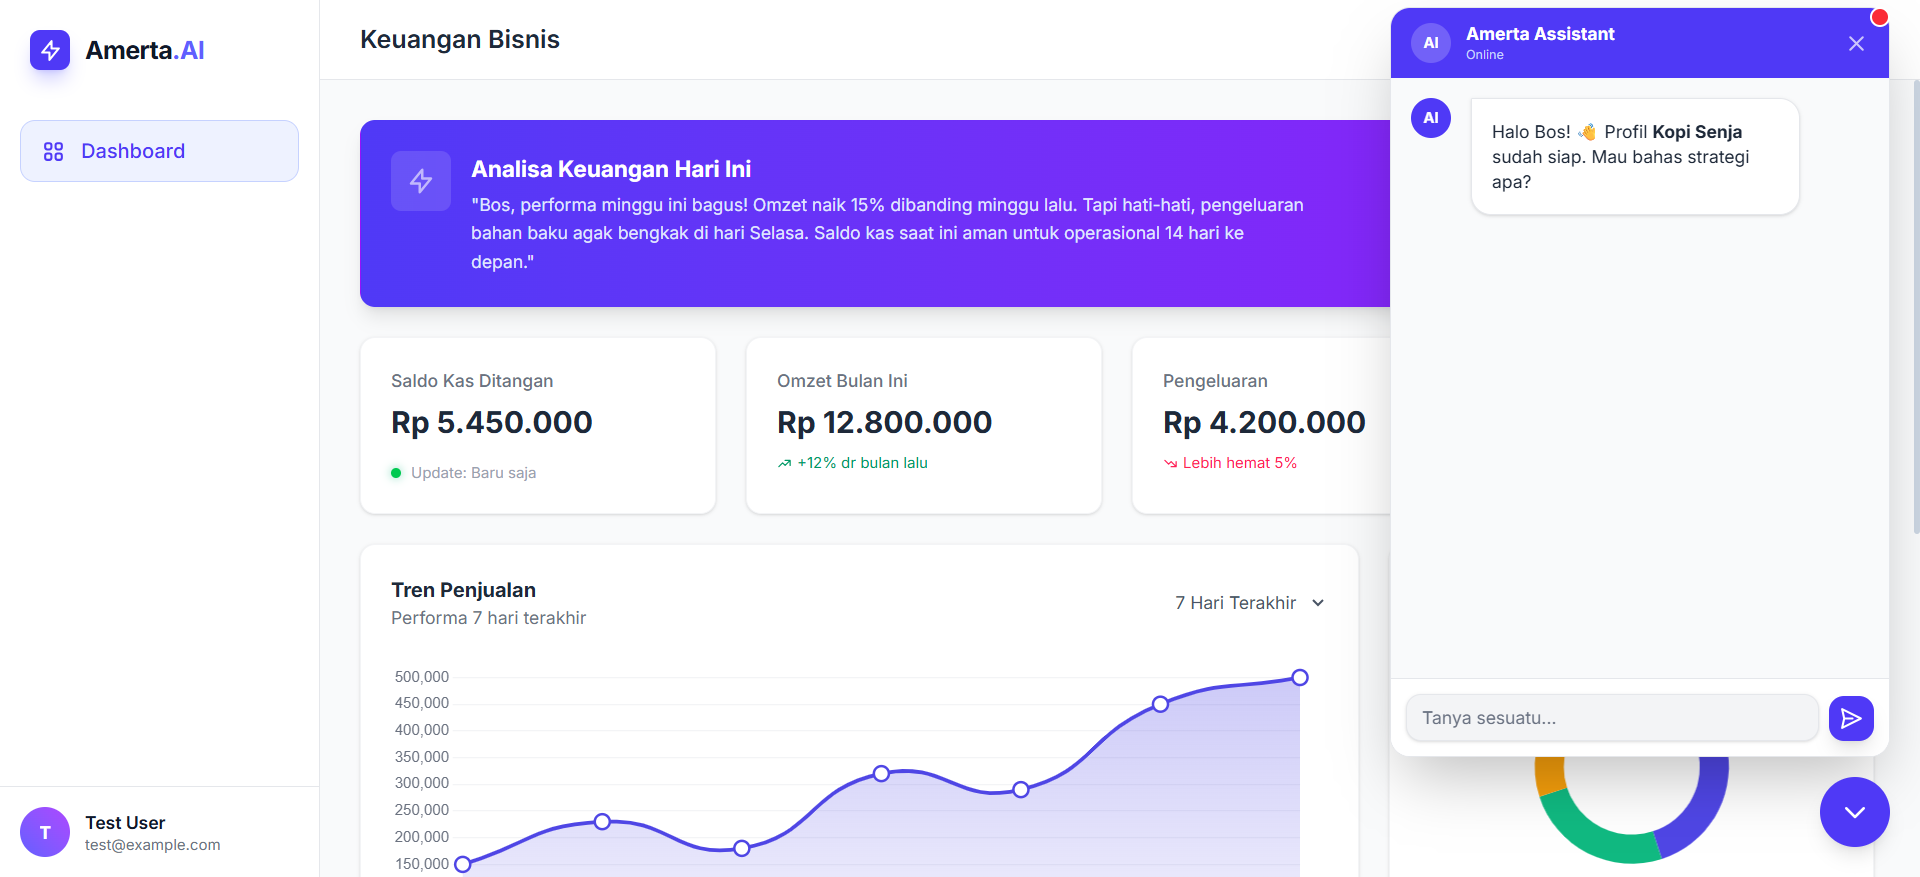
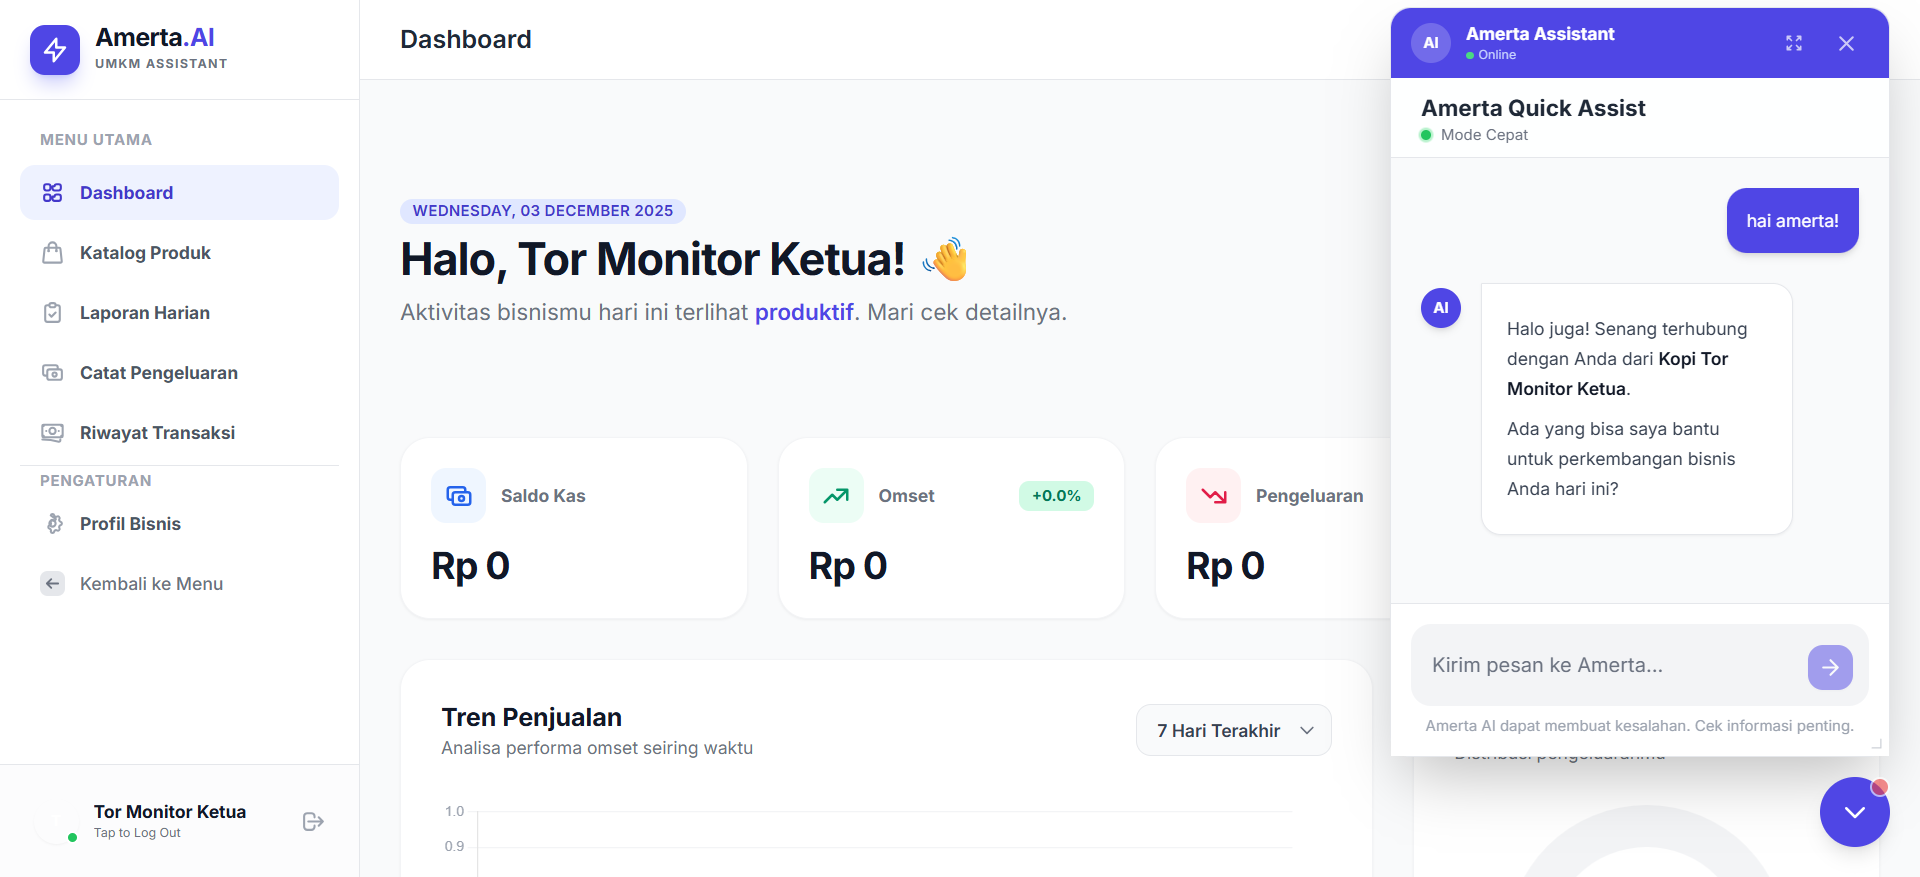
minor adjustment  (hilangkan scrollbar)

diff --git a/resources/css/app.css b/resources/css/app.css
@@ -12,3 +12,31 @@
         "Apple Color Emoji", "Segoe UI Emoji", "Segoe UI Symbol",
         "Noto Color Emoji";
 }
+
+@layer utilities {
+    /* Hide scrollbar for Chrome, Safari and Opera */
+    .scrollbar-hide::-webkit-scrollbar {
+        display: none;
+    }
+
+    /* Hide scrollbar for IE, Edge and Firefox */
+    .scrollbar-hide {
+        -ms-overflow-style: none;  /* IE and Edge */
+        scrollbar-width: none;  /* Firefox */
+    }
+}
+
+/* Apply scrollbar-hide globally to all scrollable elements */
+* {
+    scrollbar-width: none; /* Firefox */
+    -ms-overflow-style: none;  /* IE and Edge */
+}
+
+*::-webkit-scrollbar {
+    display: none; /* Chrome, Safari, Opera */
+}
+
+/* Keep scrolling functionality */
+html {
+    overflow-y: scroll;
+}

diff --git a/resources/views/layouts/partials/sidebar.blade.php b/resources/views/layouts/partials/sidebar.blade.php
@@ -73,6 +73,19 @@
             <span>Catat Pengeluaran</span>
         </a>
 
+        <a href="{{ route('riwayat.index') }}"
+            class="flex items-center gap-3 px-4 py-3 rounded-xl text-sm font-bold transition-all duration-200 group
+            {{ request()->routeIs('riwayat.index') 
+                ? 'bg-indigo-50 text-indigo-700 dark:bg-indigo-600 dark:text-white' 
+                : 'text-gray-600 dark:text-gray-400 hover:bg-gray-100 dark:hover:bg-gray-800 hover:text-gray-900 dark:hover:text-white' }}">
+            <svg class="w-5 h-5 {{ request()->routeIs('riwayat.index') ? 'text-indigo-700 dark:text-white' : 'text-gray-400 dark:text-gray-500 group-hover:text-indigo-600 dark:group-hover:text-white' }} transition-colors" 
+                 fill="none" viewBox="0 0 24 24" stroke="currentColor">
+                <path stroke-linecap="round" stroke-linejoin="round" stroke-width="2" d="M2.25 18.75a60.07 60.07 0 0 1 15.797 2.101c.727.198 1.453-.342 1.453-1.096V18.75M3.75 4.5v.75A.75.75 0 0 1 3 6h-.75m0 0v-.375c0-.621.504-1.125 1.125-1.125H20.25M2.25 6v9m18-10.5v.75c0 .414.336.75.75.75h.75m-1.5-1.5h.375c.621 0 1.125.504 1.125 1.125v9.75c0 .621-.504 1.125-1.125 1.125h-.375m1.5-1.5H21a.75.75 0 0 0-.75.75v.75m0 0H3.75m0 0h-.375a1.125 1.125 0 0 1-1.125-1.125V15m1.5 1.5v-.75A.75.75 0 0 0 3 15h-.75M15 10.5a3 3 0 1 1-6 0 3 3 0 0 1 6 0Zm3 0h.008v.008H18V10.5Zm-12 0h.008v.008H6V10.5Z" />
+            </svg>
+            <span>Riwayat Transaksi</span>
+        </a>
+        
+
         <div class="my-4 border-t border-gray-200 dark:border-gray-800"></div>
         <p class="px-4 text-xs font-bold text-gray-400 dark:text-gray-500 uppercase tracking-wider mb-3">Pengaturan</p>
 

diff --git a/resources/views/riwayat/index.blade.php b/resources/views/riwayat/index.blade.php
@@ -1,5 +1,7 @@
 @extends('layouts.app')
 
+@section('header', 'Riwayat Transksi')
+
 @section('content')
     <div class="min-h-screen bg-gray-50 dark:bg-gray-900 py-8" x-data="{
         activeTab: 'pengeluaran',
